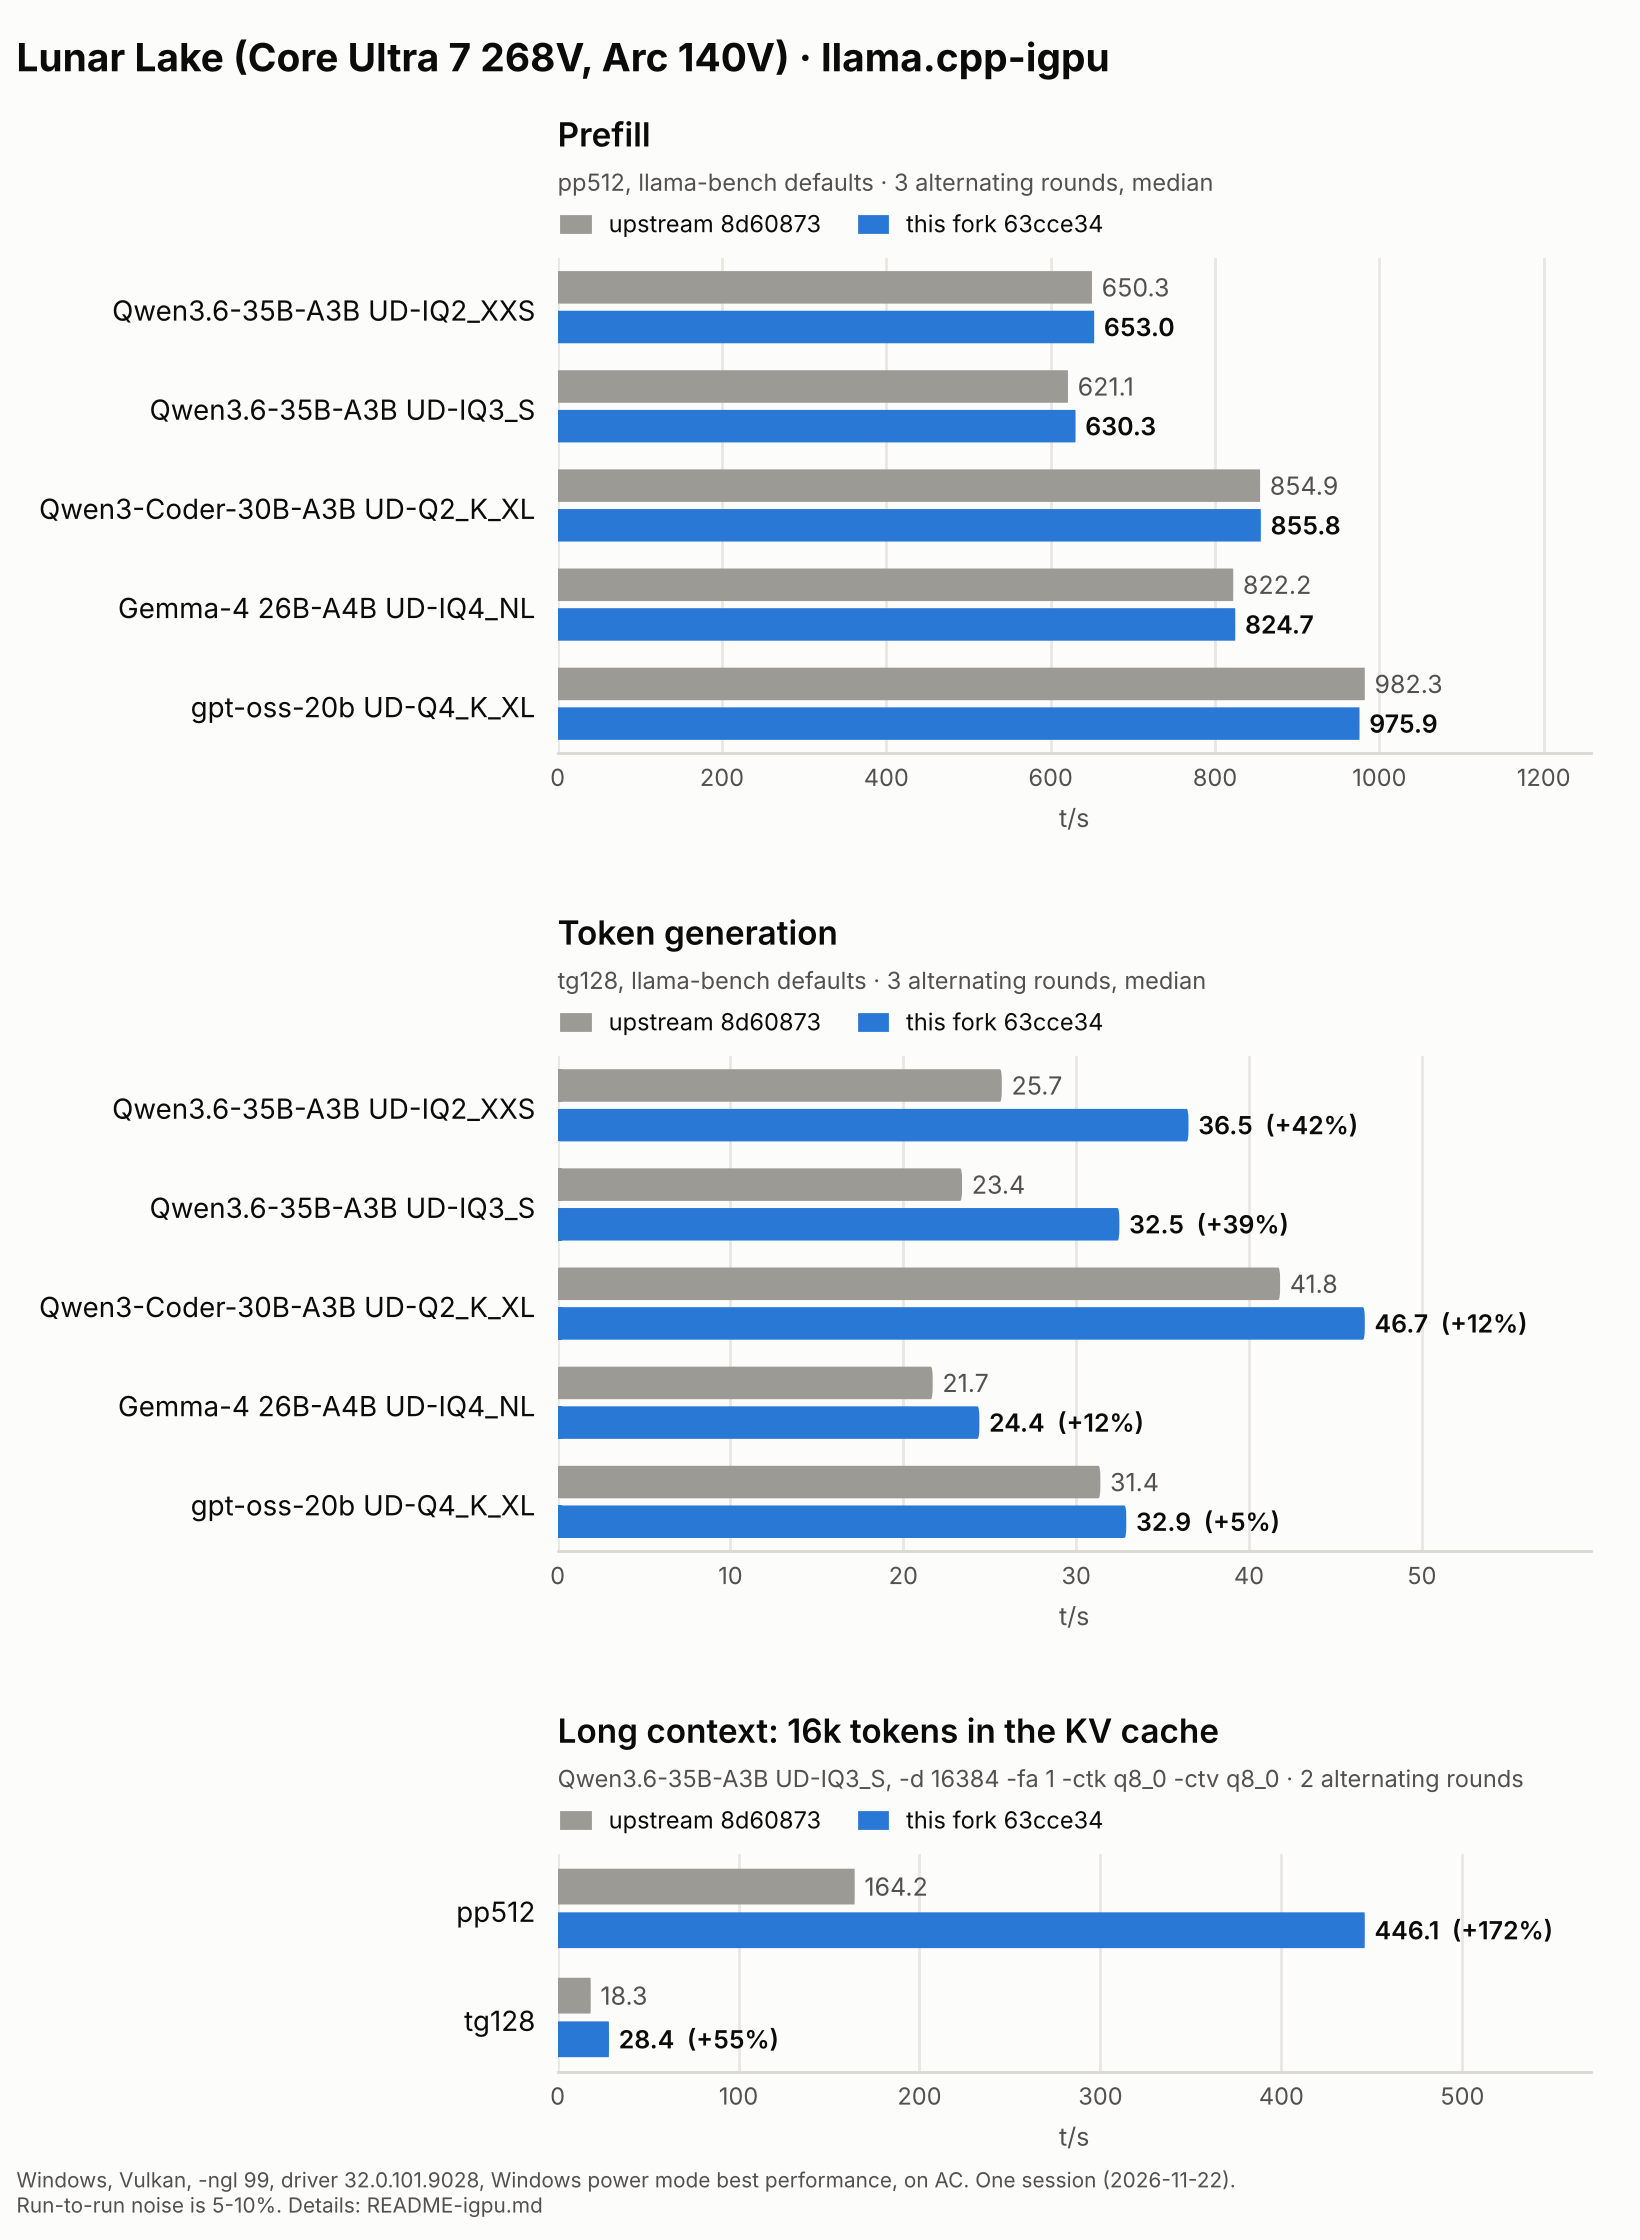
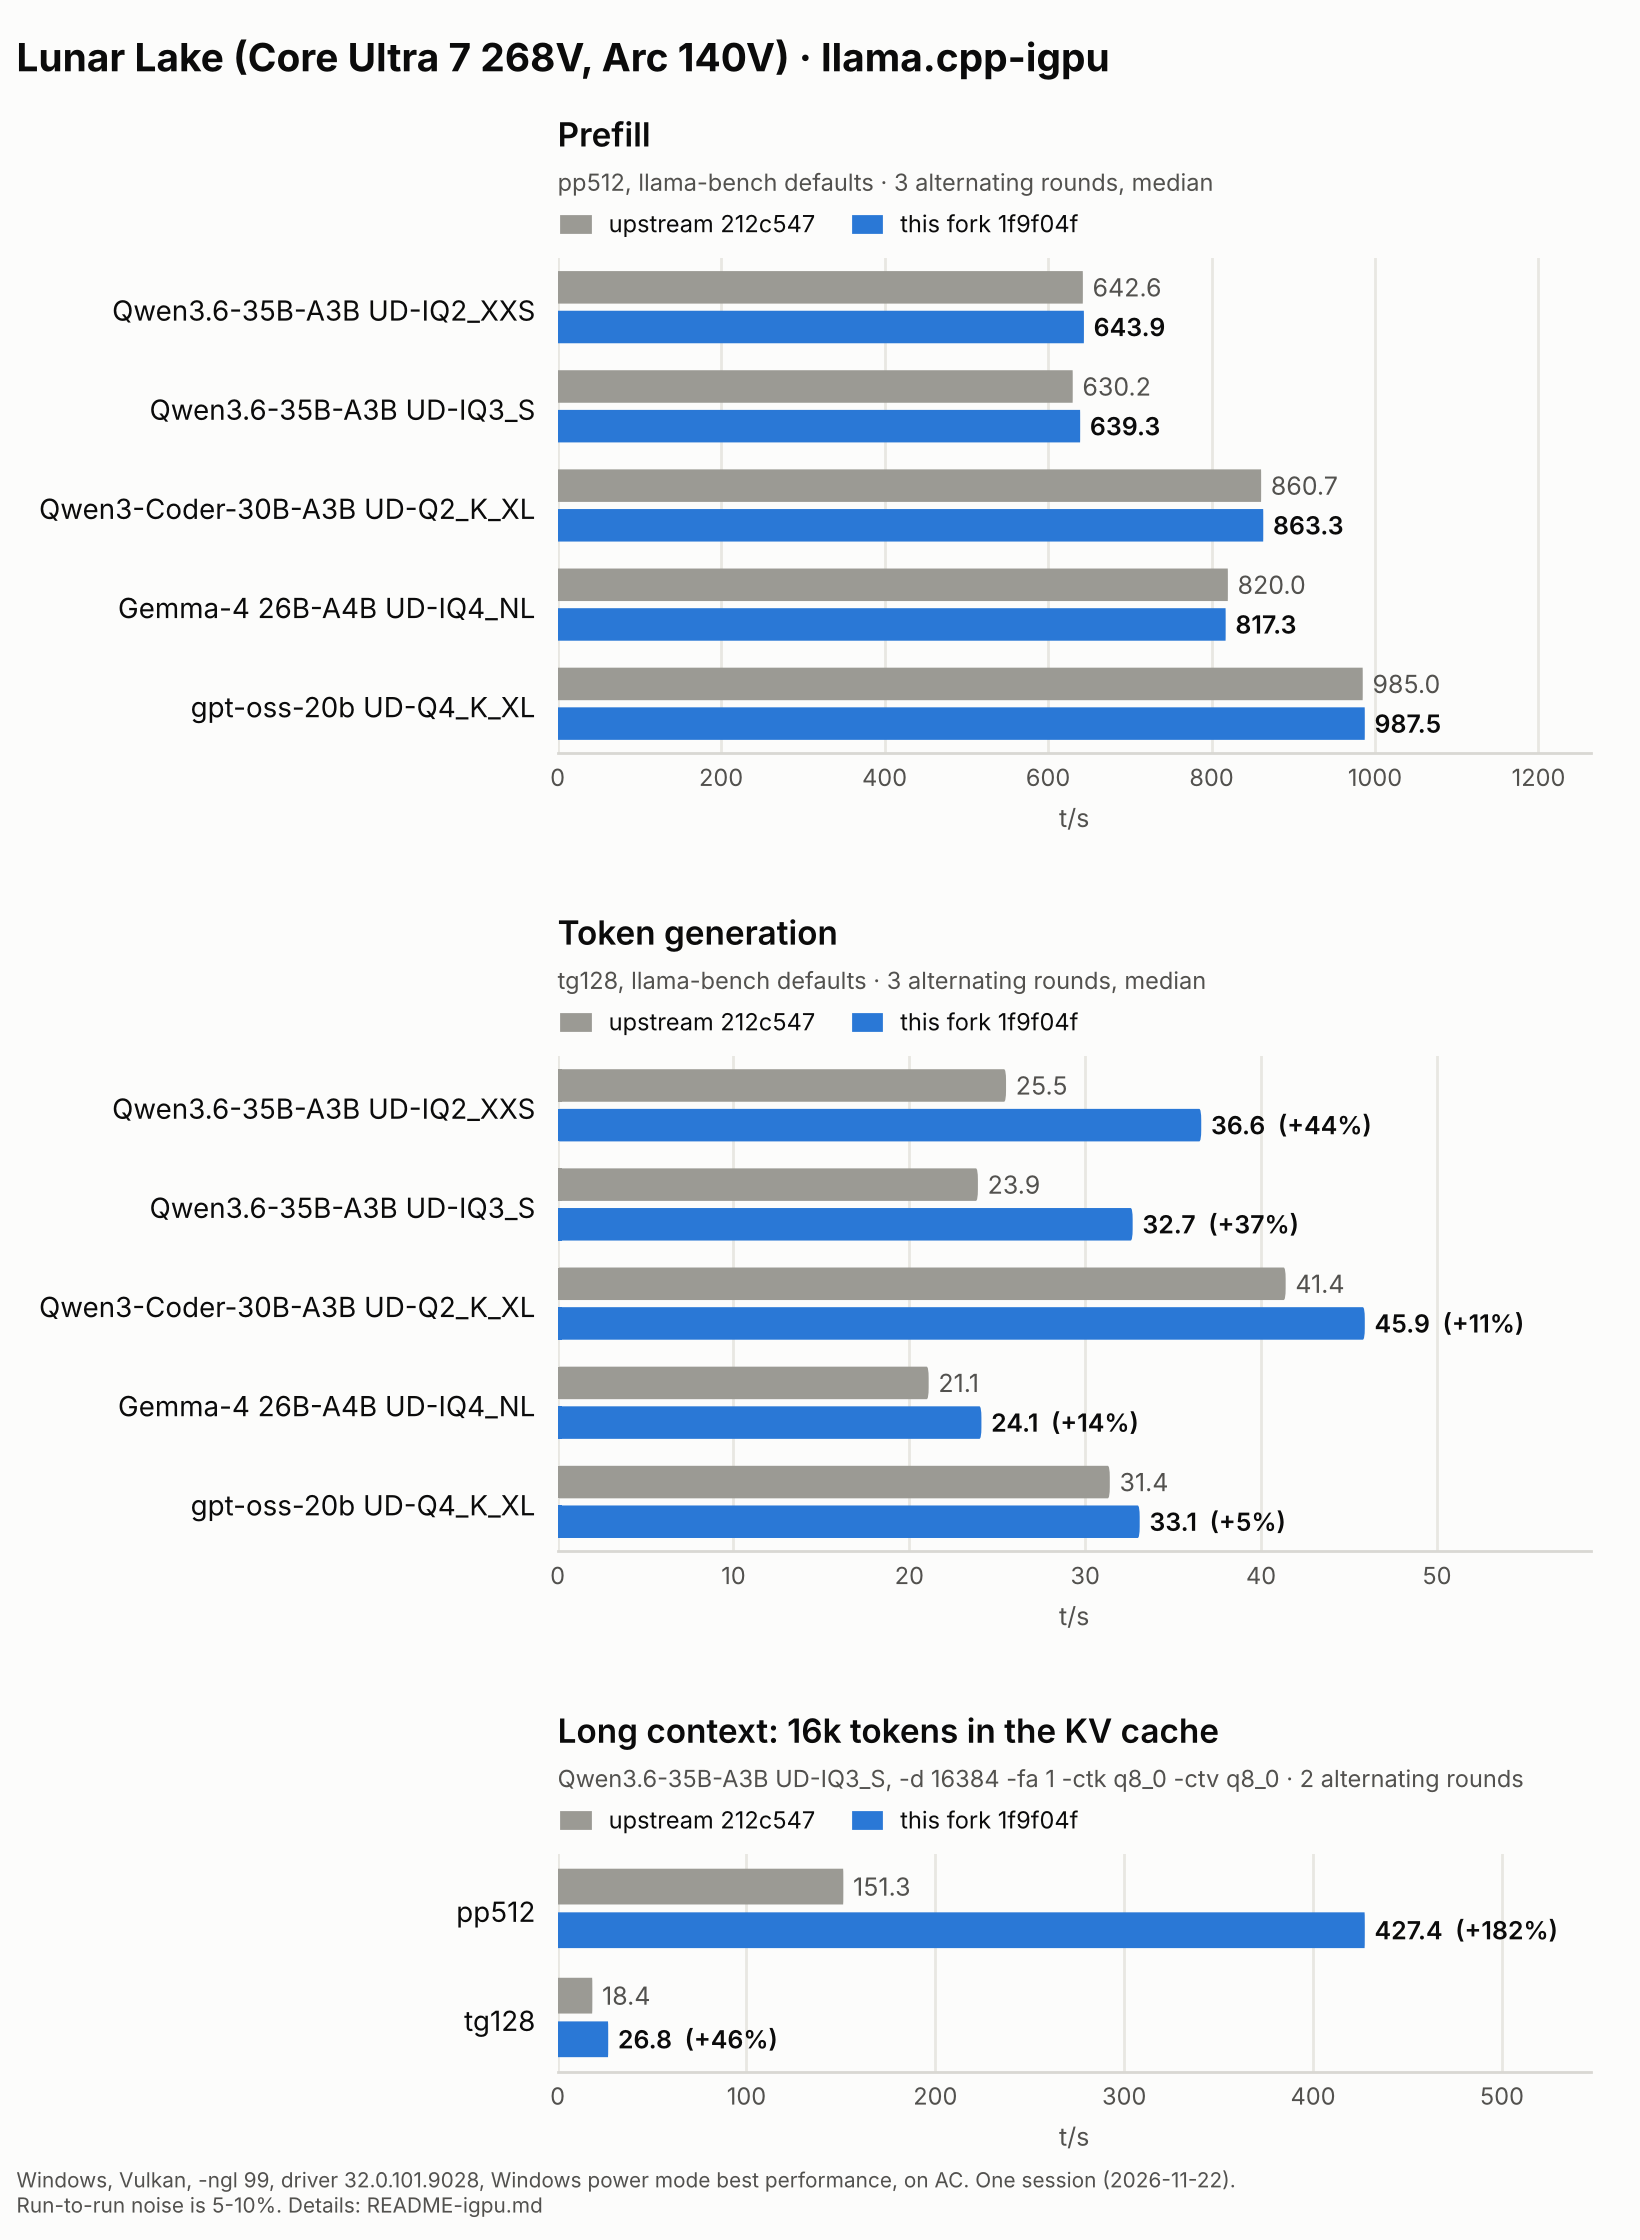
README-igpu: Lunar Lake upstream vs fork after the rebase onto 212c547
Same as before the rebase within noise. Chart redrawn.

Claude-Session: https://claude.ai/code/session_016hN8uJYywep5xmvUceryRL

diff --git a/docs/igpu/make_charts.py b/docs/igpu/make_charts.py
@@ -112,8 +112,8 @@ save(fig, "igpu-meteor-lake.png",
      "Run-to-run noise is 5-10%. Details: README-igpu.md")
 
 # ---------------- Lunar Lake ----------------
-# bench-compare.ps1, 2026-11-22: Core Ultra 7 268V, driver 32.0.101.9028,
-# upstream 8d60873 vs fork 63cce34, 3 alternating rounds at depth 0 (2 at depth 16384), medians.
+# bench-compare.ps1, 2026-11-24: Core Ultra 7 268V, driver 32.0.101.9028,
+# upstream 212c547 vs fork 1f9f04f, 3 alternating rounds at depth 0 (2 at depth 16384), medians.
 LNL_MODELS = ["Qwen3.6-35B-A3B UD-IQ2_XXS", "Qwen3.6-35B-A3B UD-IQ3_S", "Qwen3-Coder-30B-A3B UD-Q2_K_XL",
               "Gemma-4 26B-A4B UD-IQ4_NL", "gpt-oss-20b UD-Q4_K_XL"]
 fig, axs = plt.subplots(3, 1, figsize=(8.2, 11.2), facecolor=SURFACE,
@@ -121,18 +121,18 @@ fig, axs = plt.subplots(3, 1, figsize=(8.2, 11.2), facecolor=SURFACE,
 panel(axs[0], "Prefill",
       "pp512, llama-bench defaults · 3 alternating rounds, median",
       LNL_MODELS,
-      [("upstream 8d60873", BASE, [650.3, 621.1, 854.9, 822.2, 982.3]),
-       ("this fork 63cce34", FORK, [653.0, 630.3, 855.8, 824.7, 975.9])])
+      [("upstream 212c547", BASE, [642.6, 630.2, 860.7, 820.0, 985.0]),
+       ("this fork 1f9f04f", FORK, [643.9, 639.3, 863.3, 817.3, 987.5])])
 panel(axs[1], "Token generation",
       "tg128, llama-bench defaults · 3 alternating rounds, median",
       LNL_MODELS,
-      [("upstream 8d60873", BASE, [25.7, 23.4, 41.8, 21.7, 31.4]),
-       ("this fork 63cce34", FORK, [36.5, 32.5, 46.7, 24.4, 32.9])])
+      [("upstream 212c547", BASE, [25.5, 23.9, 41.4, 21.1, 31.4]),
+       ("this fork 1f9f04f", FORK, [36.6, 32.7, 45.9, 24.1, 33.1])])
 panel(axs[2], "Long context: 16k tokens in the KV cache",
       "Qwen3.6-35B-A3B UD-IQ3_S, -d 16384 -fa 1 -ctk q8_0 -ctv q8_0 · 2 alternating rounds",
       ["pp512", "tg128"],
-      [("upstream 8d60873", BASE, [164.2, 18.3]),
-       ("this fork 63cce34", FORK, [446.1, 28.4])])
+      [("upstream 212c547", BASE, [151.3, 18.4]),
+       ("this fork 1f9f04f", FORK, [427.4, 26.8])])
 fig.suptitle("Lunar Lake (Core Ultra 7 268V, Arc 140V) · llama.cpp-igpu", x=0.01, ha="left",
              fontsize=14, fontweight="bold", y=0.985)
 fig.subplots_adjust(left=0.34, right=0.97, top=0.885, bottom=0.075)

diff --git a/README-igpu.md b/README-igpu.md
@@ -66,20 +66,21 @@ re-measured.
 
 ### Lunar Lake: upstream vs this fork
 
-`bench-compare.ps1`, 2026-11-22: Core Ultra 7 268V (Arc 140V), driver 32.0.101.9028, Windows power mode best
-performance, on AC. Upstream 8d60873 vs this fork 63cce34, `llama-bench` defaults, 3 alternating rounds (2 at depth
-16384), median t/s:
+`bench-compare.ps1`, 2026-11-24: Core Ultra 7 268V (Arc 140V), driver 32.0.101.9028, Windows power mode best
+performance, on AC. Upstream 212c547 vs this fork 1f9f04f (rebased onto 212c547), `llama-bench` defaults,
+3 alternating rounds (2 at depth 16384), median t/s:
 
 | model | pp512 upstream | pp512 fork | tg128 upstream | tg128 fork |
 |---|---|---|---|---|
-| Qwen3.6-35B-A3B UD-IQ2_XXS | 650.3 | 653.0 (1.00x) | 25.7 | 36.5 (1.42x) |
-| Qwen3.6-35B-A3B UD-IQ3_S | 621.1 | 630.3 (1.01x) | 23.4 | 32.5 (1.39x) |
-| Qwen3-Coder-30B-A3B UD-Q2_K_XL | 854.9 | 855.8 (1.00x) | 41.8 | 46.7 (1.12x) |
-| Gemma-4 26B-A4B UD-IQ4_NL | 822.2 | 824.7 (1.00x) | 21.7 | 24.4 (1.12x) |
-| gpt-oss-20b UD-Q4_K_XL | 982.3 | 975.9 (0.99x) | 31.4 | 32.9 (1.05x) |
-| Qwen3.6 IQ3_S, depth 16384, `-fa 1 -ctk q8_0 -ctv q8_0` | 164.2 | 446.1 (2.72x) | 18.3 | 28.4 (1.55x) |
+| Qwen3.6-35B-A3B UD-IQ2_XXS | 642.6 | 643.9 (1.00x) | 25.5 | 36.6 (1.43x) |
+| Qwen3.6-35B-A3B UD-IQ3_S | 630.2 | 639.3 (1.01x) | 23.9 | 32.7 (1.37x) |
+| Qwen3-Coder-30B-A3B UD-Q2_K_XL | 860.7 | 863.3 (1.00x) | 41.4 | 45.9 (1.11x) |
+| Gemma-4 26B-A4B UD-IQ4_NL | 820.0 | 817.3 (1.00x) | 21.1 | 24.1 (1.14x) |
+| gpt-oss-20b UD-Q4_K_XL | 985.0 | 987.5 (1.00x) | 31.4 | 33.1 (1.05x) |
+| Qwen3.6 IQ3_S, depth 16384, `-fa 1 -ctk q8_0 -ctv q8_0` | 151.3 | 427.4 (2.82x) | 18.4 | 26.8 (1.46x) |
 
-Gemma-4 tg went from 1.08x (2026-11-21, fork 02d5e70) to 1.12x with the IQ4_NL MoE down launch shape (8 lanes x 4 rows).
+The fork numbers match the previous run (2026-11-22, fork 63cce34 on upstream 8d60873) within noise; the rebase
+changed nothing on Lunar Lake. The depth 16384 rounds varied the most (fork tg 25.6 / 28.1, pp 394 / 461).
 
 On Lunar Lake prefill at short context runs on the same FP16 XMX matmuls as upstream; the fork's gains are token
 generation and long context with a quantized KV cache. Note: the older Lunar Lake tables below that name
